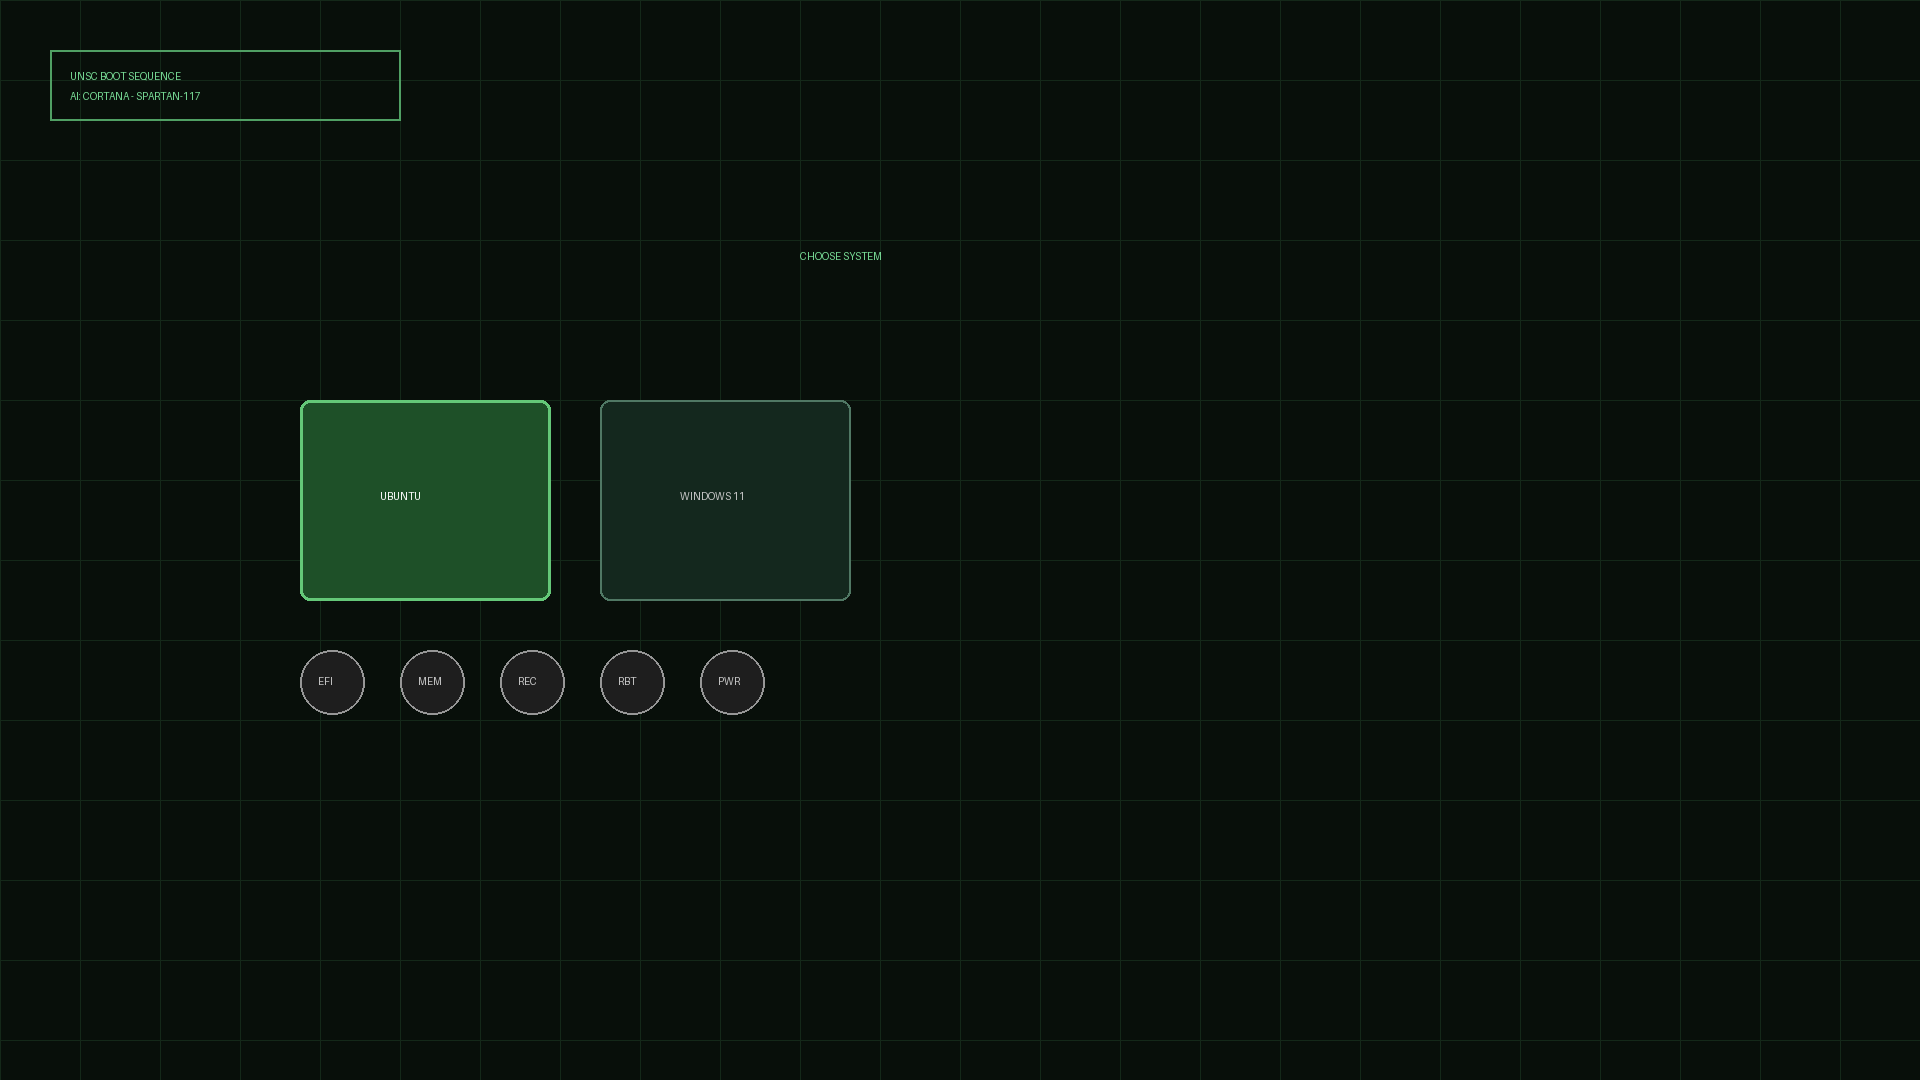
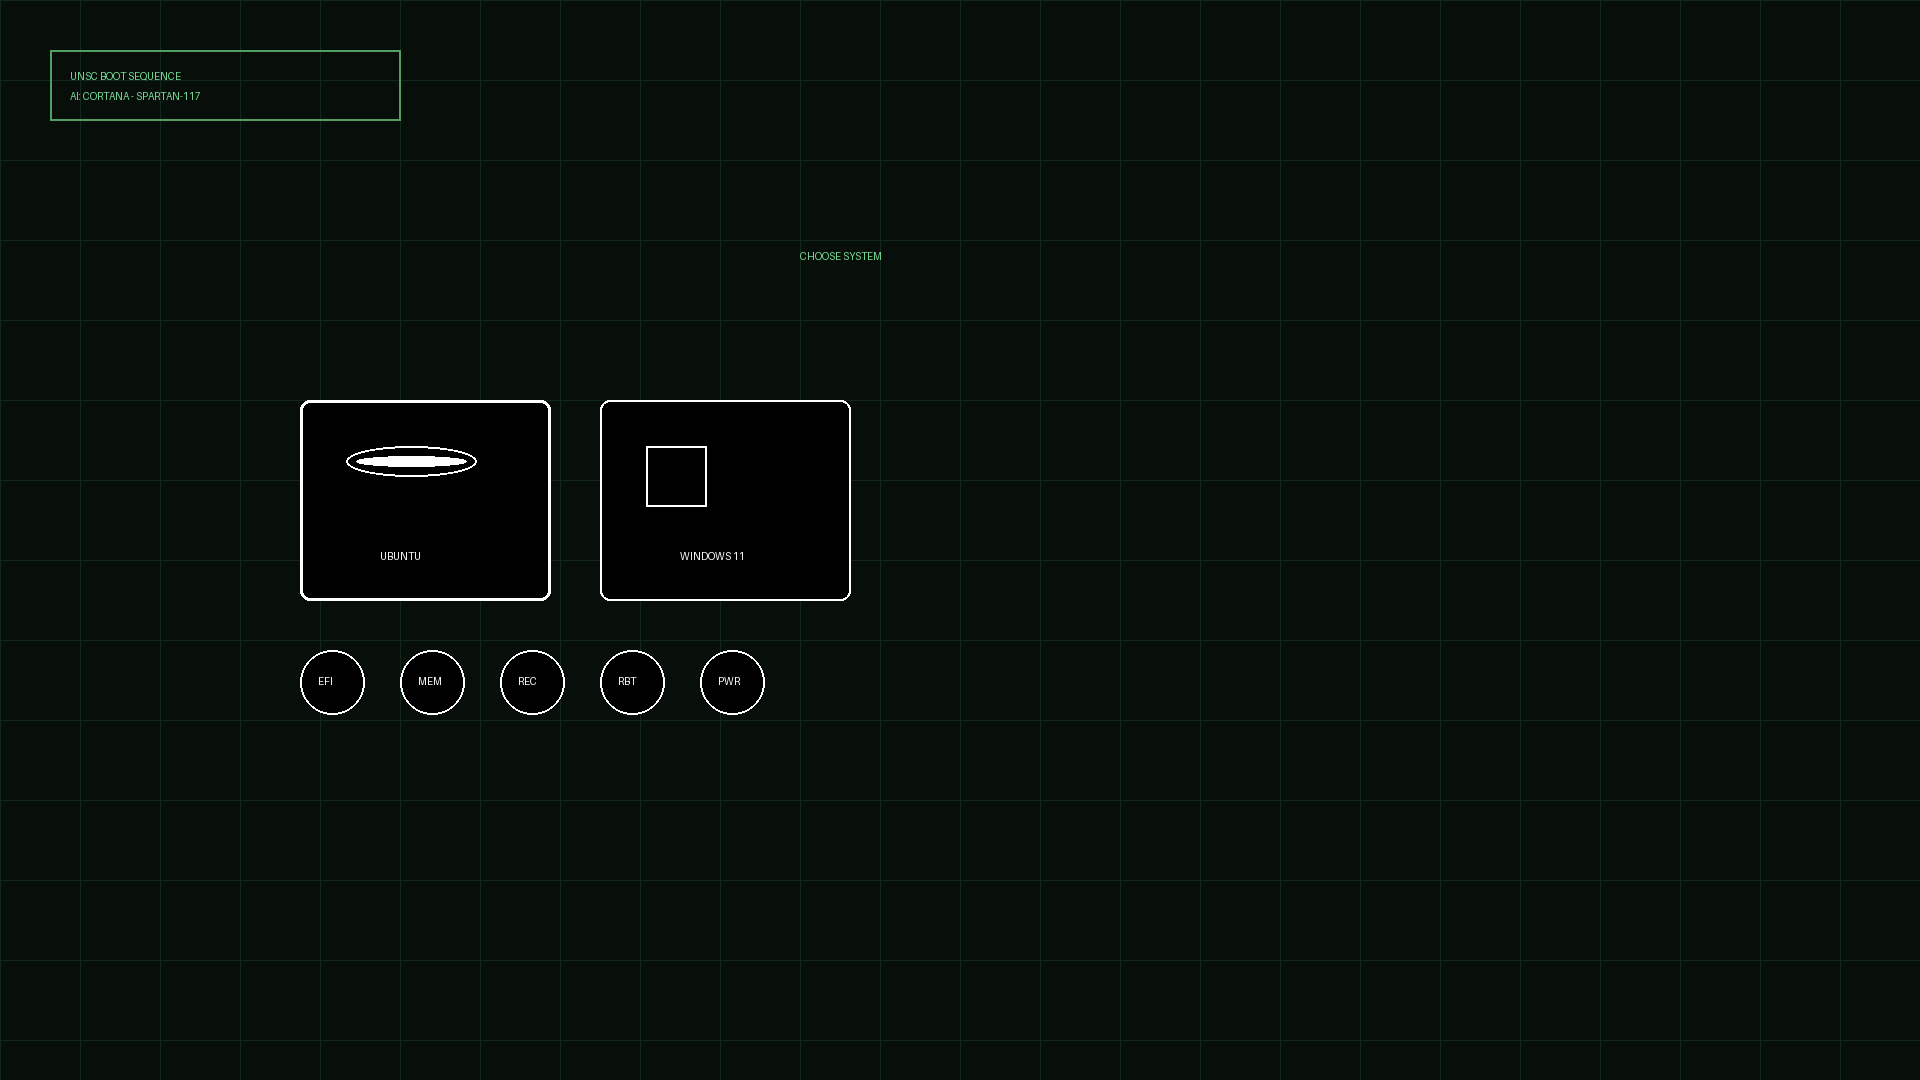
edit debug script halo hijau

Changed region(s): [[0.1562, 0.3667, 0.4688, 0.6722]]

diff --git a/README.md b/README.md
@@ -1,36 +1,14 @@
-# Halo GRUB2 Theme - UNSC HUD Edition
+# Halo GRUB2 Theme - UNSC HUD Edition (White Icons & Fixed Installer)
 
-Tema GRUB2 bernuansa sci-fi HUD yang terinspirasi dari antarmuka UNSC (Master Chief & Cortana) di Halo. Dibuat dan diuji secara khusus untuk **Ubuntu 26.04**.
+Tema GRUB2 bernuansa sci-fi HUD dengan dukungan ikon putih (OS Cards & Tools).
 
-## Preview
-![Preview Visual Tema Halo GRUB2](preview.png)
+## Perbaikan (Debug) pada rilis ini:
+* **Penyalinan Aset yang Bersih:** Installer kini hanya menyalin file `icons`, `background.png`, dan `theme.txt` ke dalam `/boot/grub/themes`, mencegah masuknya file sampah seperti script atau `.zip`.
+* **Keamanan Pengeditan Konfigurasi:** Perintah *regex* (sed) pada `install.sh` kini lebih aman dan cerdas dalam menghapus atau menimpa baris `GRUB_THEME` yang dikomentari (`#`) maupun yang mengandung spasi tidak wajar.
+* **Dukungan Lintas-Distro (Cross-Compatibility):** Pemasang kini bisa berjalan pada Arch Linux atau distribusi lain dengan otomatis menggunakan `grub-mkconfig -o /boot/grub/grub.cfg` jika `update-grub` (khas Debian/Ubuntu) tidak ditemukan.
 
-## Fitur
-* **Latar Belakang UNSC HUD:** Desain terminal hijau gelap bergaya Halo.
-* **OS Selection "Cards":** Tampilan simulasi kartu untuk OS Windows dan Linux (Ubuntu).
-* **Icon Tools Kustom:** Ikon utilitas bulat di baris simulasi kedua (Reboot, Shutdown, UEFI, Memtest, Recovery).
-
-## Cara Instalasi (Otomatis) di Ubuntu 26.04
-
-Kami telah menyediakan script `install.sh` untuk memudahkan proses pemasangan tema ini di Ubuntu Anda.
-
-1. Ekstrak file `.zip` ini ke sebuah folder.
-2. Buka terminal (`Ctrl+Alt+T`) dan navigasikan ke dalam folder hasil ekstraksi.
-3. Berikan izin eksekusi pada skrip installer dengan perintah:
-   ```bash
-   chmod +x install.sh
-   ```
-4. Jalankan skrip instalasi dengan hak akses root:
-   ```bash
-   sudo ./install.sh
-   ```
-5. Tunggu proses instalasi dan pembaruan GRUB selesai. Setelah itu, *restart* PC Anda!
-
-## Cara Instalasi (Manual)
-1. Pindahkan seluruh isi folder ini ke `/boot/grub/themes/halo_theme` (gunakan `sudo`).
-2. Buka file konfigurasi GRUB: `sudo nano /etc/default/grub`
-3. Tambahkan baris: `GRUB_THEME="/boot/grub/themes/halo_theme/theme.txt"`
-4. Perbarui GRUB: `sudo update-grub`
-
-*Peringatan Layout:*
-GRUB2 secara default merender daftar menu dalam satu kolom vertikal. Desain kartu dan baris-kedua pada tema ini memanfaatkan manipulasi ruang dan bentuk ikon. Untuk pengalaman *grid* yang sesungguhnya, kami menyarankan penggunaan rEFInd Boot Manager.
+## Cara Instalasi
+1. Ekstrak `.zip`.
+2. Buka terminal di folder ekstraksi, ketik: `chmod +x install.sh`
+3. Ketik: `sudo ./install.sh`
+4. Restart PC.
